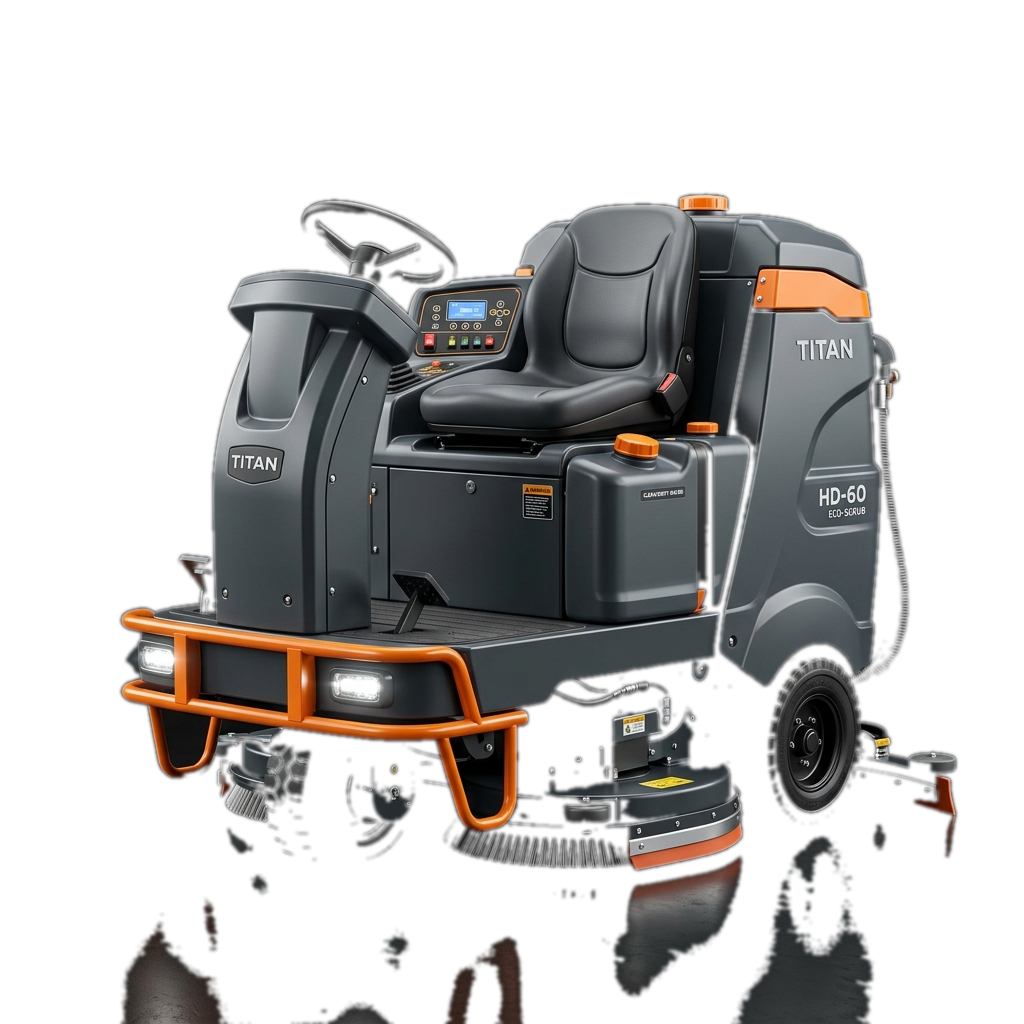
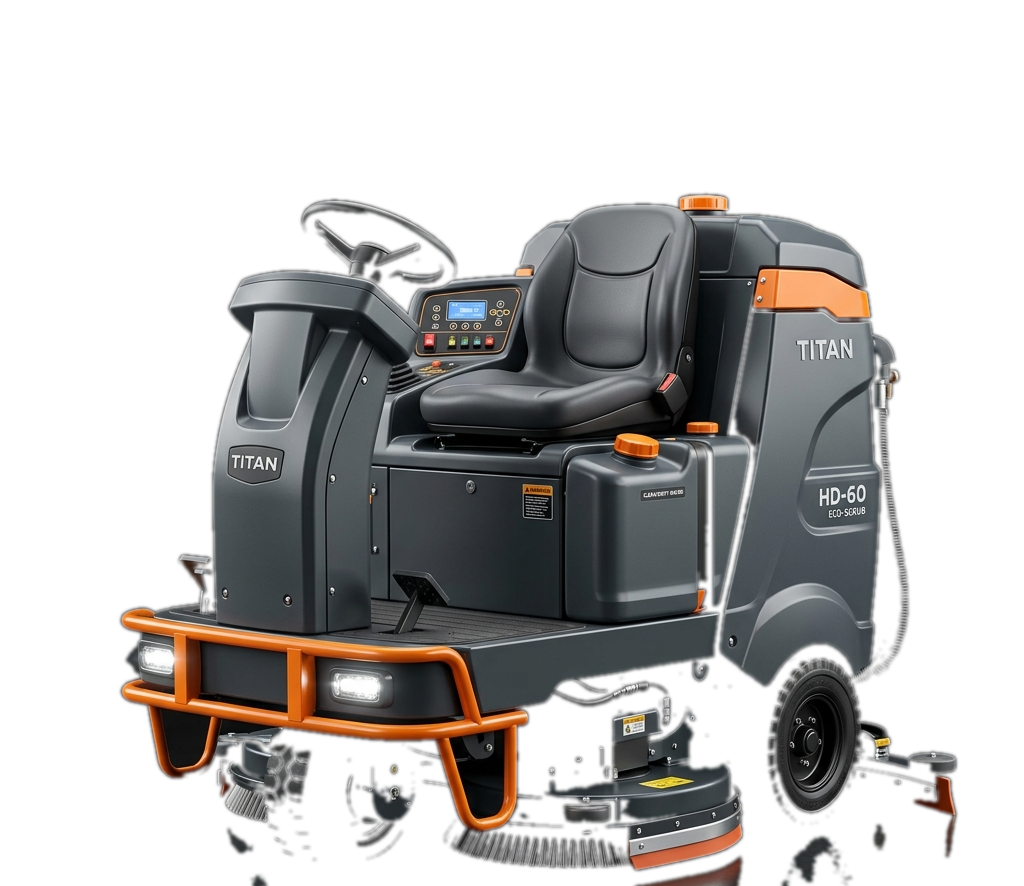
Update page layout and transparent image asset paths

diff --git a/app/page.tsx b/app/page.tsx
@@ -188,9 +188,6 @@ export default function Home() {
           width: 54%; max-width: 420px; z-index: 4;
           filter: drop-shadow(0 30px 20px rgba(0,0,0,0.8));
           animation: floatPodium 6s ease-in-out infinite;
-          mix-blend-mode: screen;
-          mask-image: linear-gradient(to bottom, rgba(0,0,0,1) 65%, rgba(0,0,0,0) 98%);
-          -webkit-mask-image: linear-gradient(to bottom, rgba(0,0,0,1) 65%, rgba(0,0,0,0) 98%);
         }
         @keyframes floatPodium { 0%,100%{ transform: translateX(-50%) translateY(0); } 50%{ transform: translateX(-50%) translateY(-15px); } }
 
@@ -208,7 +205,7 @@ export default function Home() {
         
         .hp-spec-title { font-size: 11.5px; color: rgba(255,255,255,0.5); text-transform: uppercase; letter-spacing: 1px; margin-bottom: 4px; }
         .hp-spec-name { font-size: 15.5px; font-weight: 700; color: #fff; margin-bottom: 12px; }
-        .hp-spec-img { width: 100%; height: 100px; object-fit: contain; margin-bottom: 12px; filter: drop-shadow(0 10px 10px rgba(0,0,0,0.5)); mix-blend-mode: screen; }
+        .hp-spec-img { width: 100%; height: 100px; object-fit: contain; margin-bottom: 12px; filter: drop-shadow(0 10px 10px rgba(0,0,0,0.5)); }
         .hp-spec-list { list-style: none; padding: 0; margin: 0; font-size: 11px; color: rgba(255,255,255,0.7); }
         .hp-spec-list li { display: flex; justify-content: space-between; margin-bottom: 5px; border-bottom: 1px dashed rgba(255,255,255,0.1); padding-bottom: 4px; }
         .hp-spec-list li span { color: #fff; font-weight: 600; }
@@ -504,7 +501,7 @@ export default function Home() {
                   <div className="hp-spec-card hp-spec-card-left hp-reveal delay-3">
                     <div className="hp-spec-title">Scrubber</div>
                     <div className="hp-spec-name">Cleantech Titan-Series Rider</div>
-                    <img src="/assets/img/service/new-ride-on-scrubber.png" className="hp-spec-img" alt="Scrubber" />
+                    <img src="/assets/img/service/new-ride-on-scrubber-clean.png" className="hp-spec-img" alt="Scrubber" />
                     <ul className="hp-spec-list">
                       <li>Sweep path: <span>900 mm</span></li>
                       <li>Recovery tank: <span>150 L</span></li>
@@ -515,7 +512,7 @@ export default function Home() {
                   <div className="hp-spec-card hp-spec-card-right hp-reveal delay-4">
                     <div className="hp-spec-title">Cleantech Vacuum</div>
                     <div className="hp-spec-name">Industrial Wet & Dry</div>
-                    <img src="/assets/img/service/new-vacuum-cleaner.png" className="hp-spec-img" alt="Vacuum" style={{ height: '70px' }} />
+                    <img src="/assets/img/service/new-vacuum-cleaner-clean.png" className="hp-spec-img" alt="Vacuum" style={{ height: '70px' }} />
                     <ul className="hp-spec-list">
                       <li>Capacity: <span>80 L</span></li>
                       <li>Suction: <span>250 mBar</span></li>
@@ -524,7 +521,7 @@ export default function Home() {
                   </div>
 
                   {/* Main Machine on Podium */}
-                  <img src="/assets/img/service/new-ride-on-scrubber.png" className="hp-podium-machine" alt="Ride-On Scrubber" />
+                  <img src="/assets/img/service/new-ride-on-scrubber-clean.png" className="hp-podium-machine" alt="Ride-On Scrubber" />
 
                   {/* Podium Base */}
                   <div className="hp-podium-base hp-reveal">
